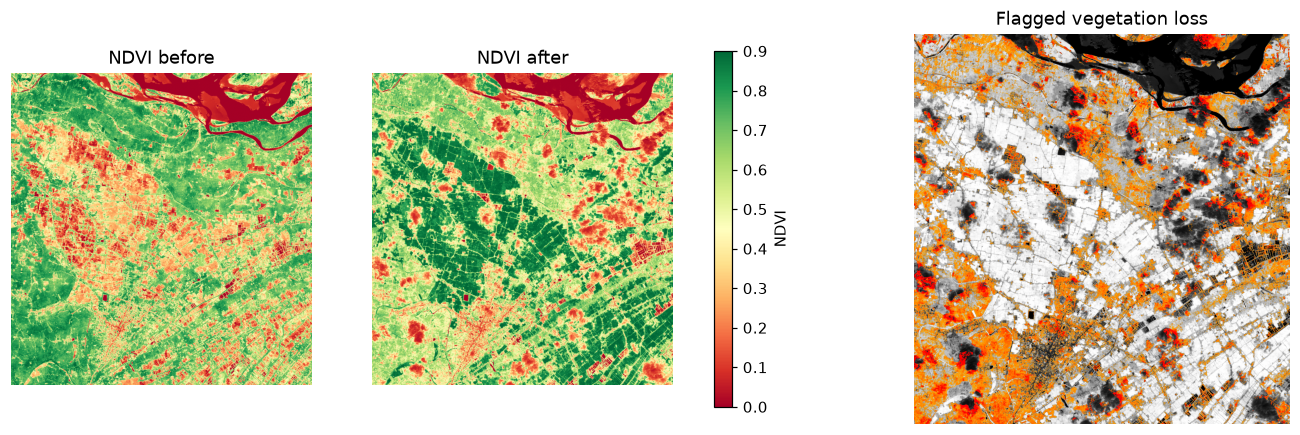
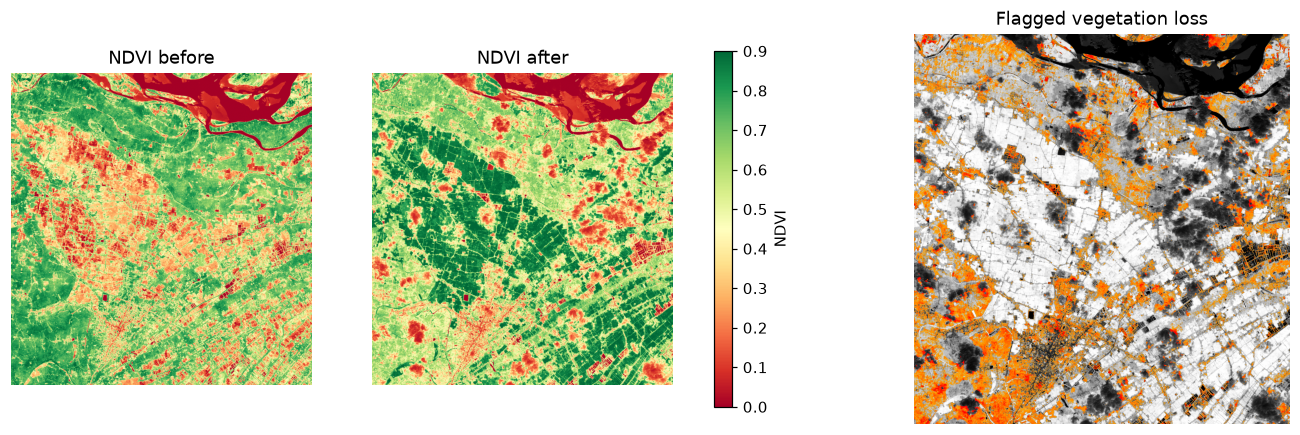
Ignore pixels within 50 m of masked clouds in the crop-stress track
The Sentinel-2 scene classification misses hazy cloud edges; about a
third of flagged pixels sat within 100 m of a masked cloud. The valid
mask is now grown by a configurable buffer (default 5 px = 50 m).

diff --git a/src/aci/crop_stress.py b/src/aci/crop_stress.py
@@ -7,7 +7,7 @@ import numpy as np
 from rasterio.transform import Affine
 
 from aci.geo import area_summary, mask_to_polygons
-from aci.ndvi import has_offset, scene_ndvi, stress_mask
+from aci.ndvi import buffer_invalid, has_offset, scene_ndvi, stress_mask
 
 
 def load(npz):
@@ -22,18 +22,18 @@ def crop_to(scene, h, w):
     return {k: (v[:h, :w] if v.ndim == 2 else v) for k, v in scene.items()}
 
 
-def run(data_dir, out_dir, drop=0.15):
+def run(data_dir, out_dir, drop=0.15, cloud_buffer=5):
     b, a = load(Path(data_dir) / "before.npz"), load(Path(data_dir) / "after.npz")
     h, w = min(b["red"].shape[0], a["red"].shape[0]), min(b["red"].shape[1], a["red"].shape[1])
     b, a = crop_to(b, h, w), crop_to(a, h, w)
     nb, na = scene_ndvi(b, "before"), scene_ndvi(a, "after")
-    valid = b["valid"] & a["valid"]
+    valid = buffer_invalid(b["valid"] & a["valid"], cloud_buffer)  # 5 px = 50 m around clouds
     mask, score = stress_mask(nb, na, valid, drop_threshold=drop)
     transform, crs = Affine(*b["transform"]), str(b["crs"])
     gdf = mask_to_polygons(mask, score, transform, crs, min_pixels=5)  # 5 px at 10 m = 0.05 ha
     summary = area_summary(gdf)
     summary.update(before_date=str(b["date"]), after_date=str(a["date"]), valid_fraction=float(valid.mean()),
-                   drop_threshold=drop,
+                   drop_threshold=drop, cloud_buffer_m=cloud_buffer * 10,
                    offset_removed={"before": has_offset(str(b["baseline"])), "after": has_offset(str(a["baseline"]))})
     out = Path(out_dir)
     out.mkdir(parents=True, exist_ok=True)
@@ -48,8 +48,9 @@ def main():
     ap.add_argument("--data", default="data/sentinel/godavari")
     ap.add_argument("--out", default="outputs/crop_stress")
     ap.add_argument("--drop", type=float, default=0.15)
+    ap.add_argument("--cloud-buffer", type=int, default=5, help="pixels around clouds to also ignore (10 m each)")
     args = ap.parse_args()
-    print(json.dumps(run(args.data, args.out, args.drop), indent=2))
+    print(json.dumps(run(args.data, args.out, args.drop, args.cloud_buffer), indent=2))
 
 
 if __name__ == "__main__":

diff --git a/tests/test_ndvi.py b/tests/test_ndvi.py
@@ -1,6 +1,6 @@
 import numpy as np
 
-from aci.ndvi import has_offset, ndvi, remove_offset, scene_ndvi, stress_mask, valid_from_scl
+from aci.ndvi import buffer_invalid, has_offset, ndvi, remove_offset, scene_ndvi, stress_mask, valid_from_scl
 
 
 def test_ndvi_values():
@@ -33,3 +33,12 @@ def test_scene_ndvi_same_field_gives_same_answer_in_both_baselines():
     assert abs(float(scene_ndvi(new, "new")[0]) - 0.5) < 1e-6
     # Without the fix the new scene would look much less green: (1300-1100)/(2400) = 0.083
     assert float(ndvi(new["red"], new["nir"])[0]) < 0.1
+
+
+def test_cloud_buffer_grows_invalid_area():
+    valid = np.ones((9, 9), bool)
+    valid[4, 4] = False  # one cloud pixel in the middle
+    buffered = buffer_invalid(valid, pixels=2)
+    assert not buffered[4, 6] and not buffered[2, 4]  # 2 px away: now unusable
+    assert buffered[4, 7] and buffered[0, 0]  # further away: still fine
+    assert (buffer_invalid(valid, 0) == valid).all()

diff --git a/src/aci/ndvi.py b/src/aci/ndvi.py
@@ -1,5 +1,6 @@
 """Vegetation-index math. NDVI = (NIR - Red) / (NIR + Red); healthy crops are high, bare soil/stressed crops are low."""
 import numpy as np
+from scipy import ndimage
 
 # From processing baseline 04.00 (January 2022) on, ESA adds 1000 to every Sentinel-2 L2A value so that
 # slightly negative reflectances can be stored. Older scenes (e.g. baseline 02.12 from 2021) have no offset.
@@ -47,3 +48,10 @@ GOOD_SCL = (4, 5, 6, 7)
 
 def valid_from_scl(scl: np.ndarray) -> np.ndarray:
     return np.isin(scl, GOOD_SCL)
+
+
+def buffer_invalid(valid: np.ndarray, pixels: int = 5) -> np.ndarray:
+    """Also mark pixels within `pixels` of a cloud/shadow as unusable: the scene classification misses hazy cloud edges."""
+    if pixels <= 0:
+        return valid
+    return ~ndimage.binary_dilation(~valid, iterations=pixels)
